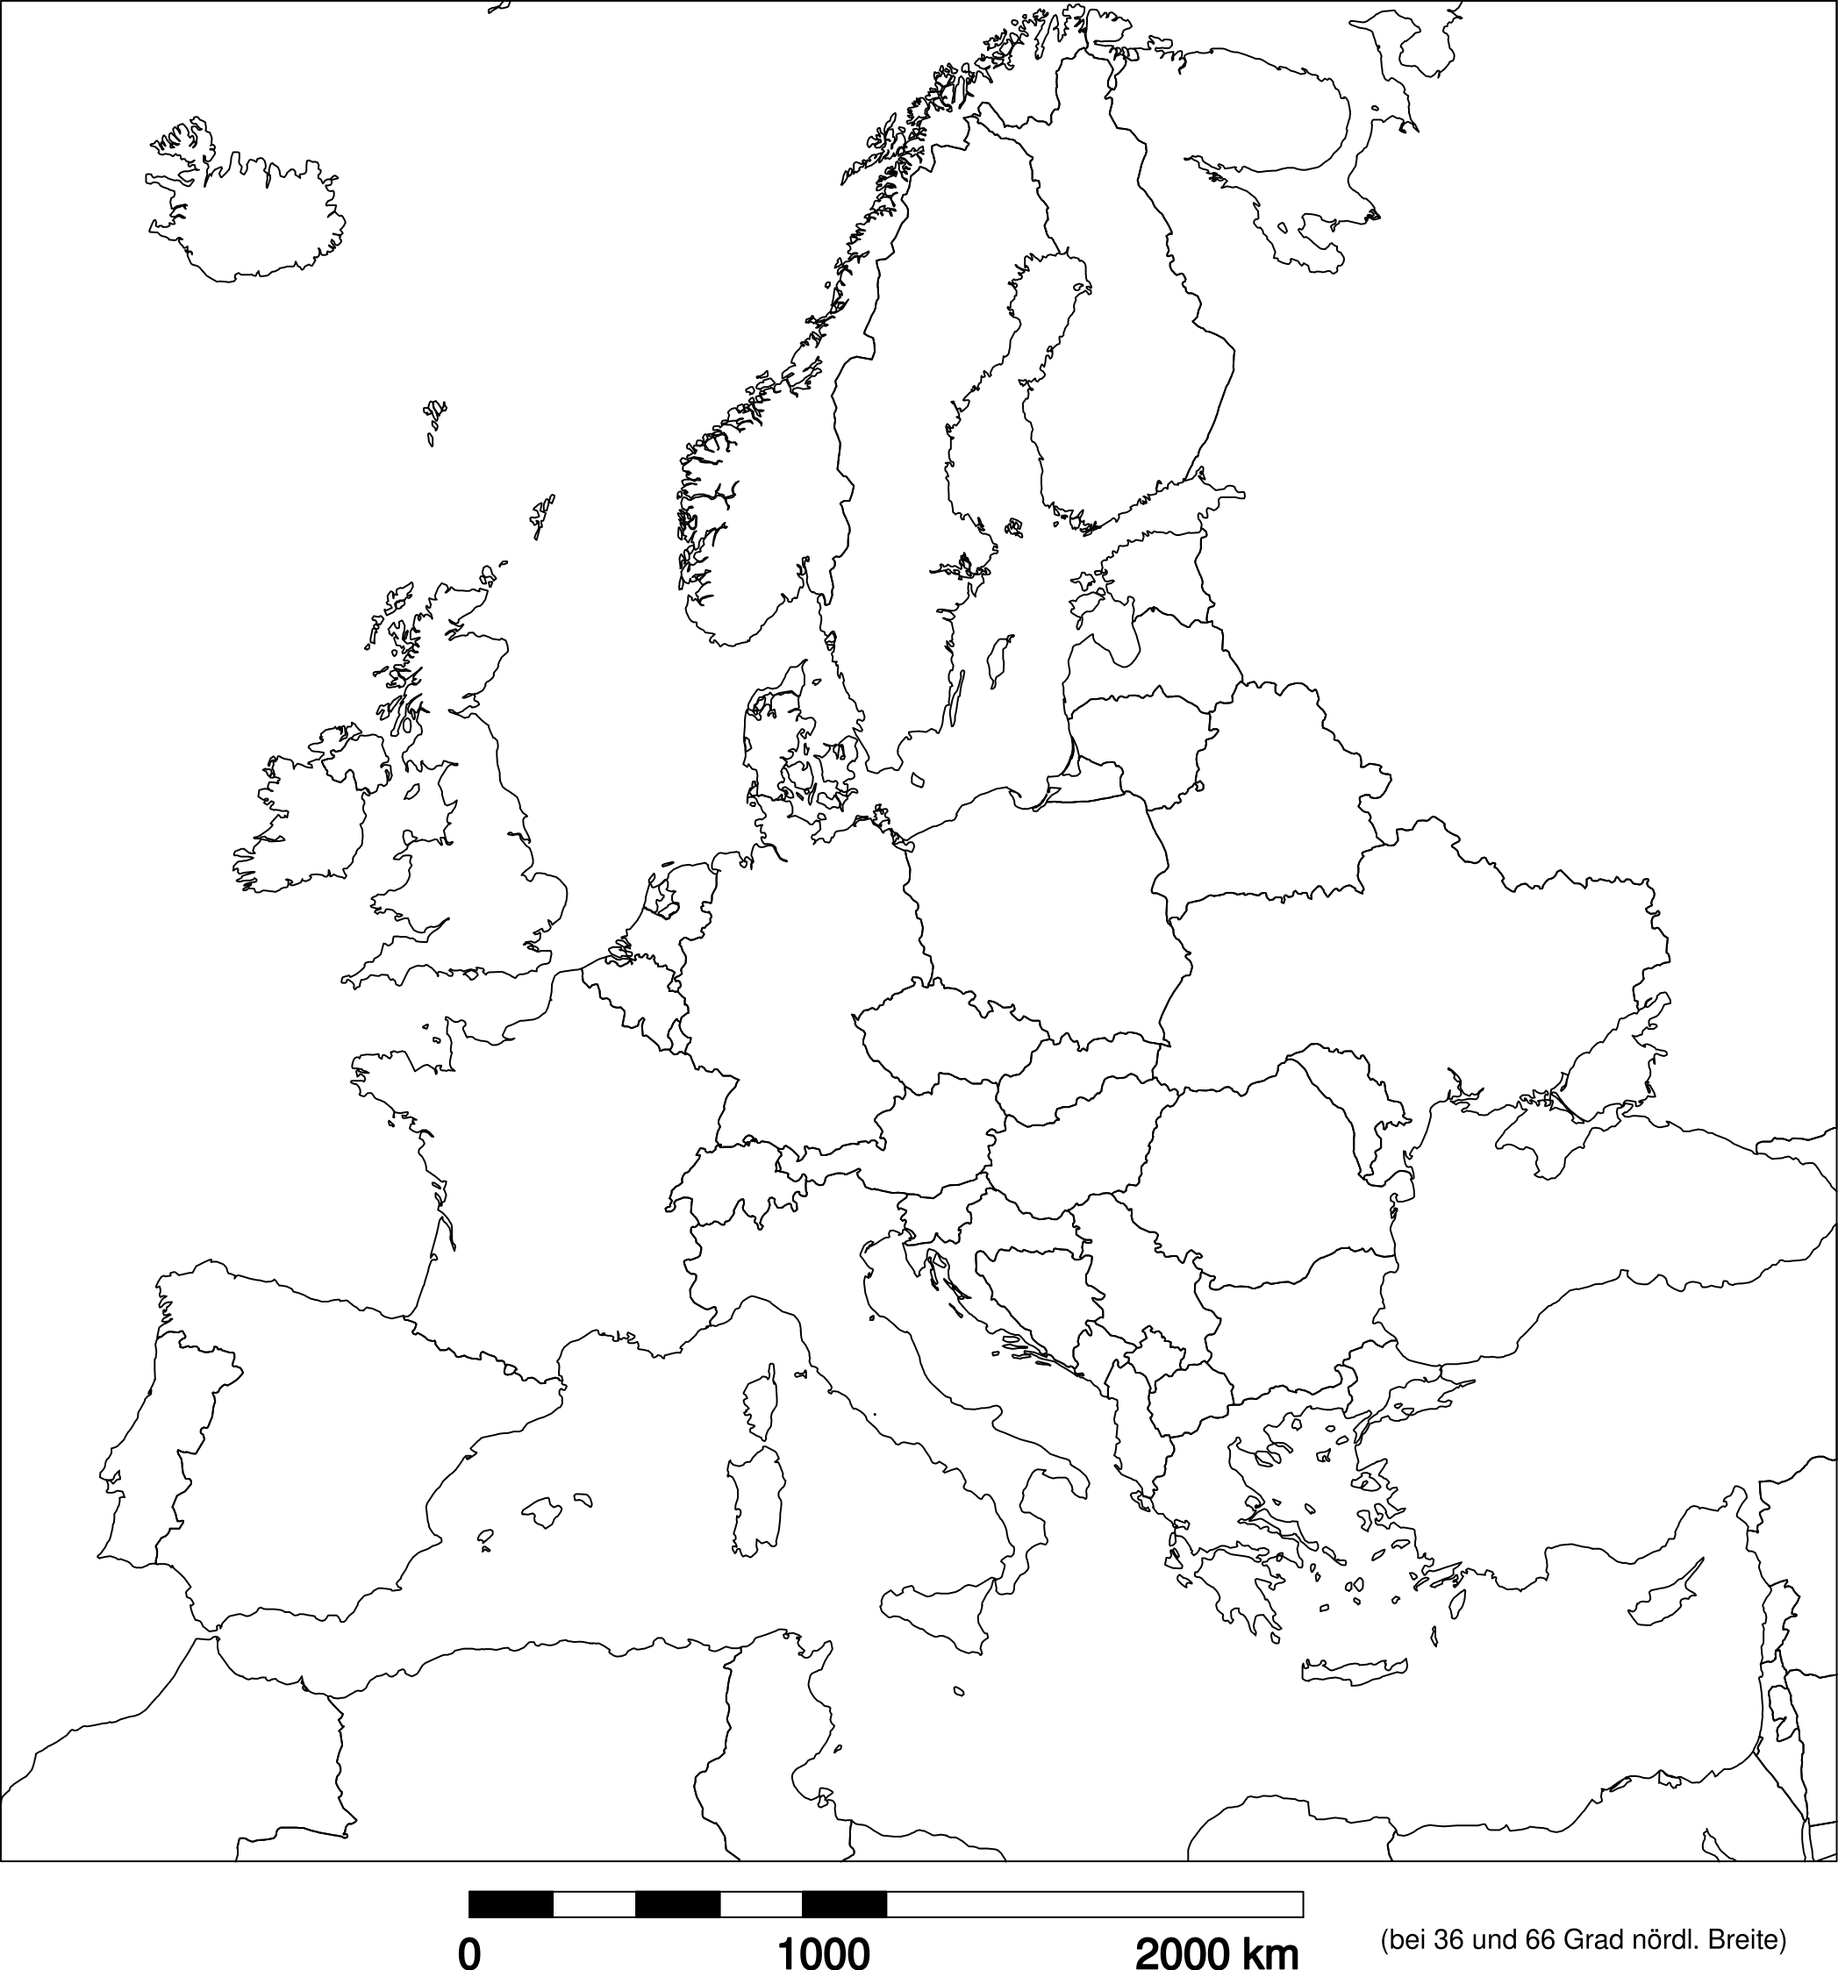
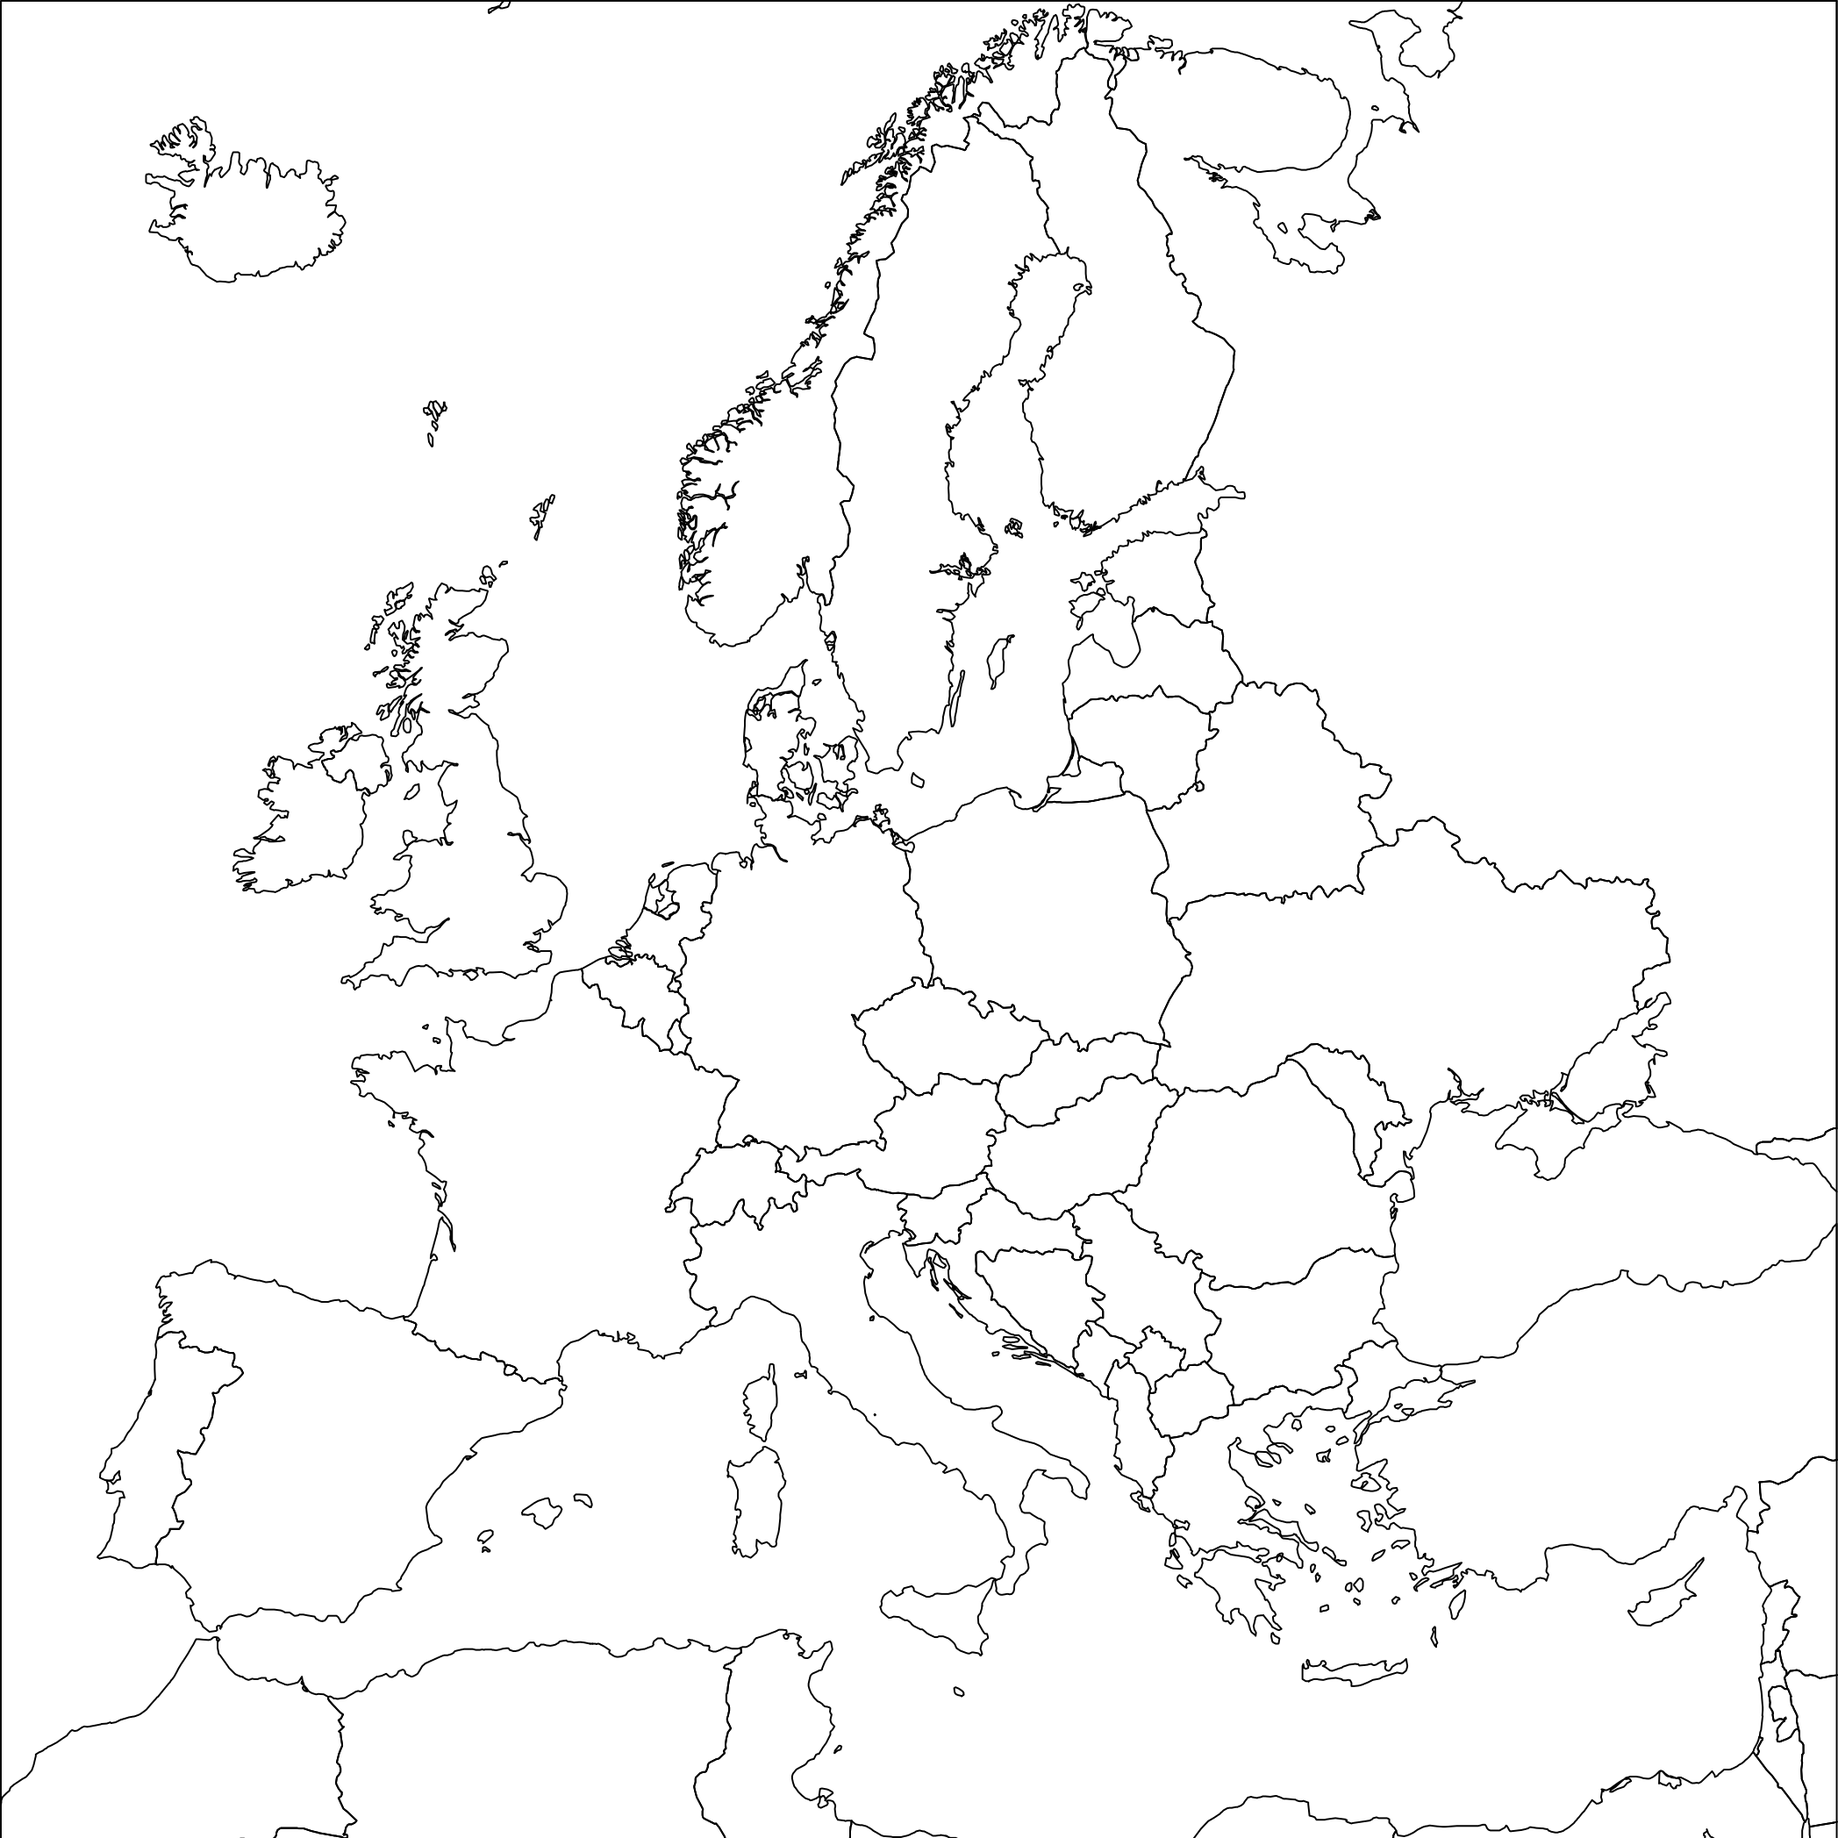
Hello World

diff --git a/Europaquiz.py b/Europaquiz.py
@@ -1,6 +1,13 @@
-from gpanel import *
+from matplotlib import pyplot as plt
+from matplotlib import image as mpimg
+ 
+plt.title("Hauptstädtequiz")
+ 
+image = mpimg.imread("EuropaleereKarte.png")
+plt.imshow(image)
 
-makeGPanel()
-img = getImage("https://upload.wikimedia.org/wikipedia/commons/thumb/1/15/Europa.svg/2560px-Europa.svg.png")
-print (imageWidth("https://upload.wikimedia.org/wikipedia/commons/thumb/1/15/Europa.svg/2560px-Europa.svg.png"))
-image("https://upload.wikimedia.org/wikipedia/commons/thumb/1/15/Europa.svg/2560px-Europa.svg.png", 0, 0)
+ax = plt.gca()
+ax.get_xaxis().set_visible(False)
+ax.get_yaxis().set_visible(False)
+
+plt.show()
